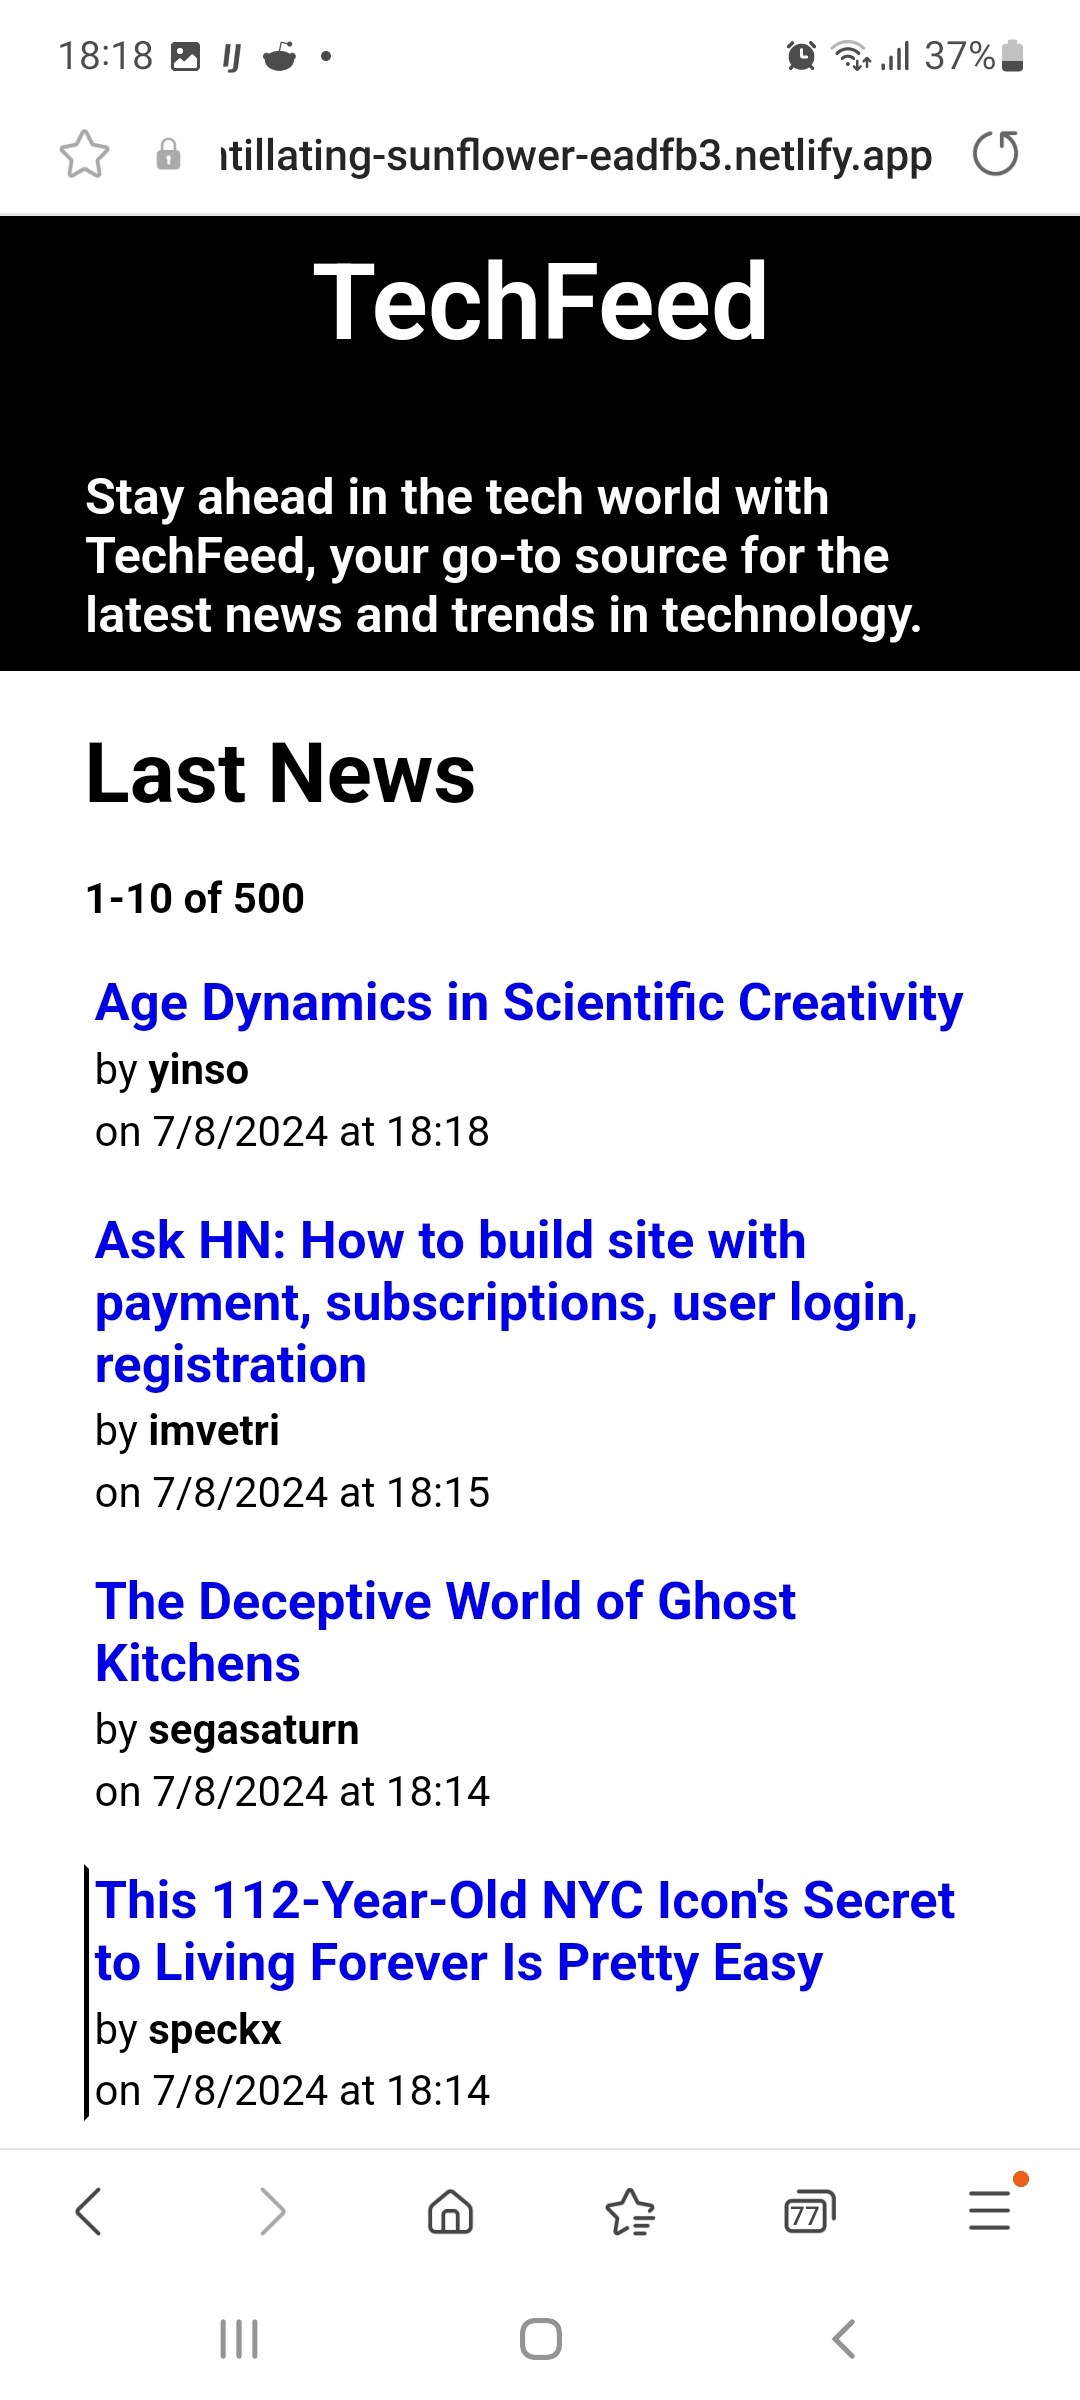
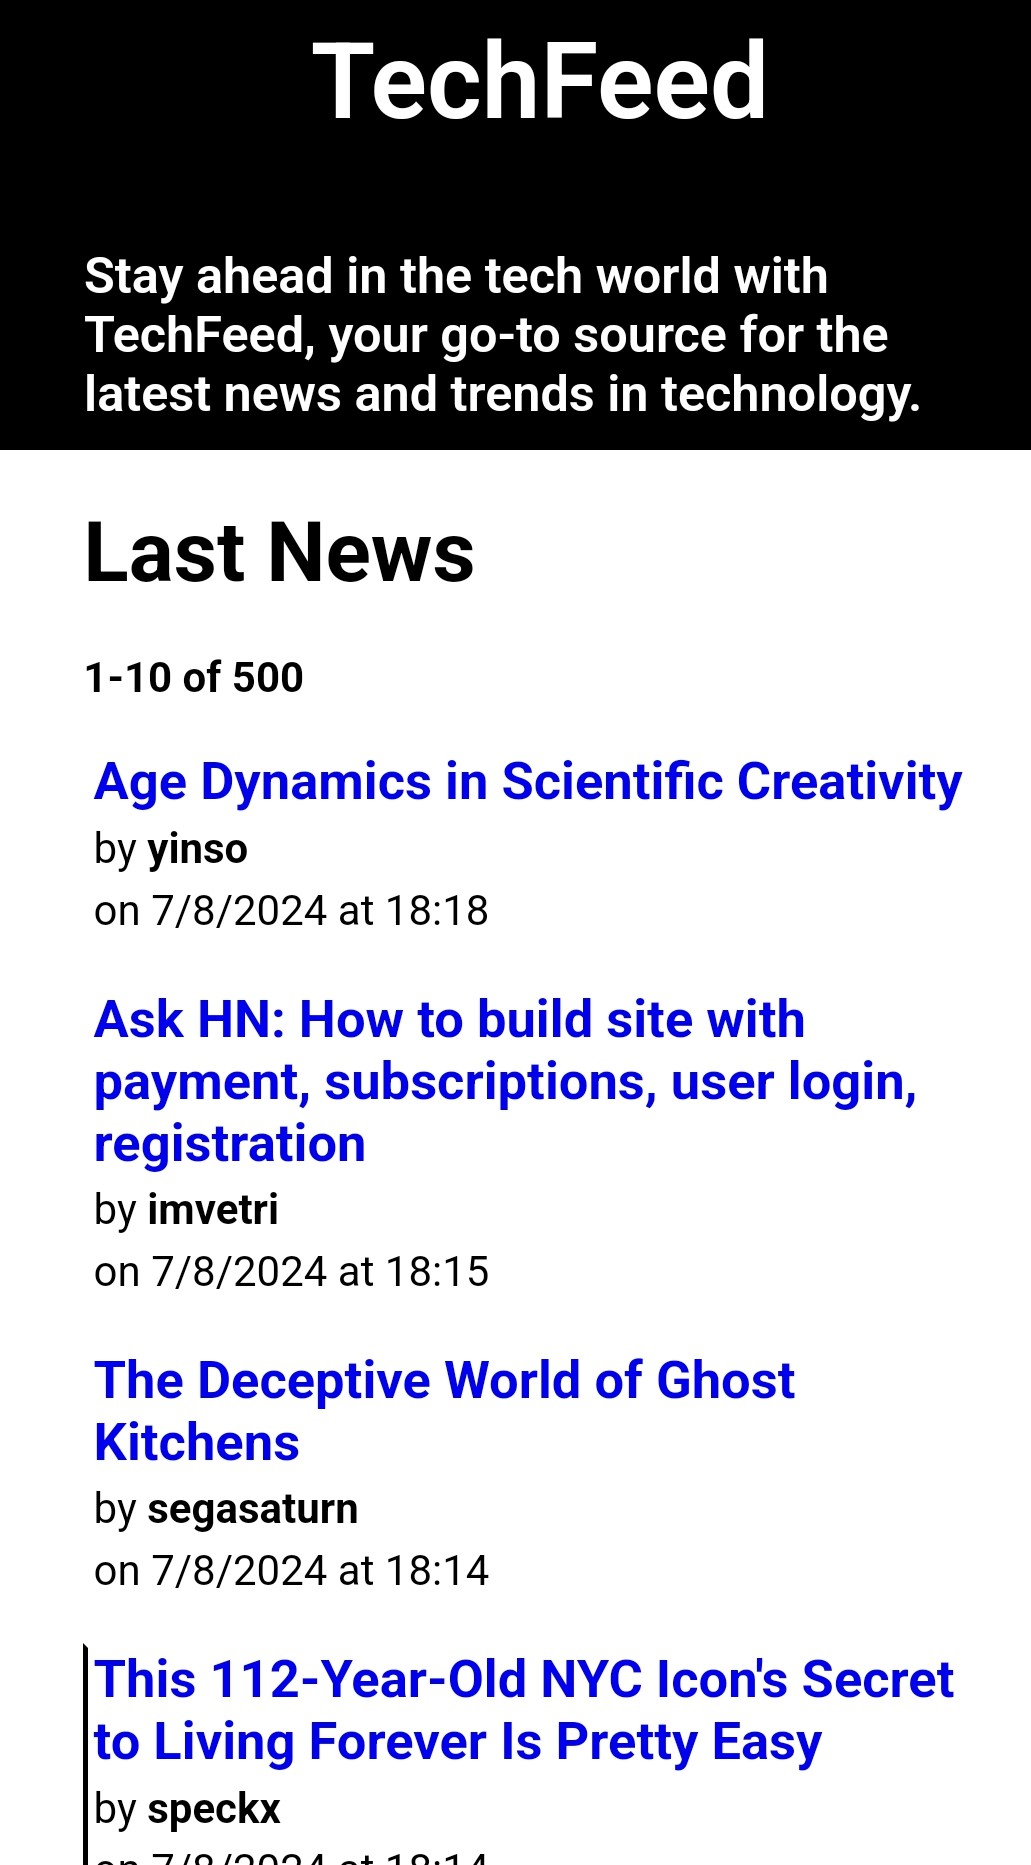
readme done

Changed region(s): [[0.0, 0.0, 1.0, 1.0]]

diff --git a/README.md b/README.md
@@ -1,5 +1,8 @@
 # TECHFEED
 
+<img src="./src/assets/images/readmePhoto1.jpg" alt="tech feed image 1" width="300" height="200"/>
+<img src="./src/assets/images/readmePhoto2.jpg" alt="tech feed image 2" width="300" height="200"/>
+
 ![TechFeed image 1](./src/assets/images/readmePhoto1.jpg)
 ![TechFeed image 2](./src/assets/images/readmePhoto2.jpg)
 
